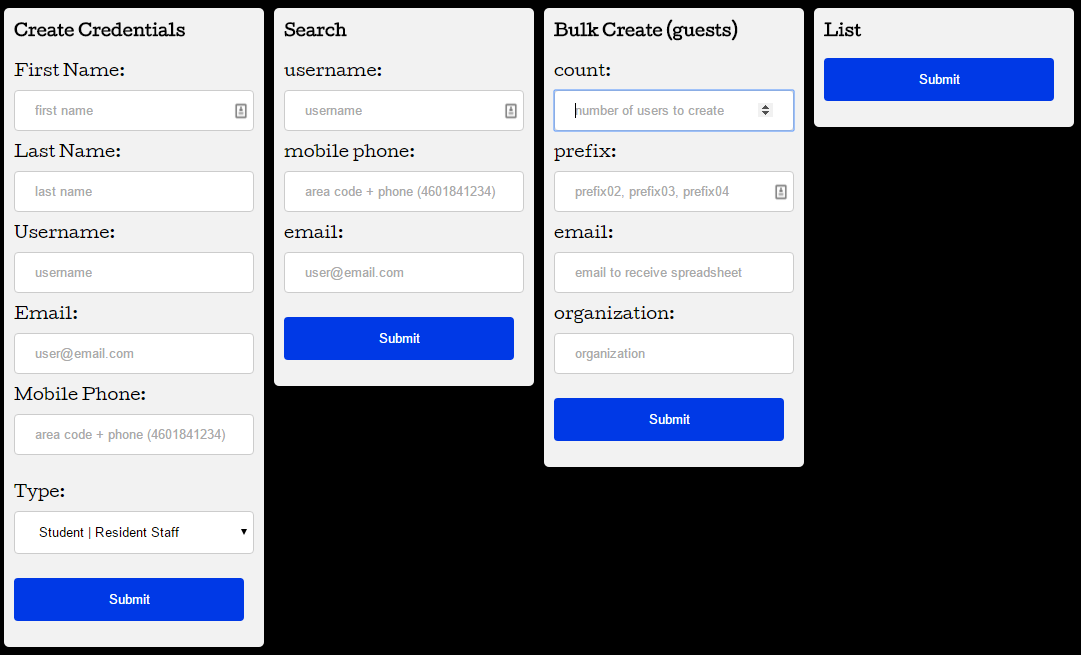
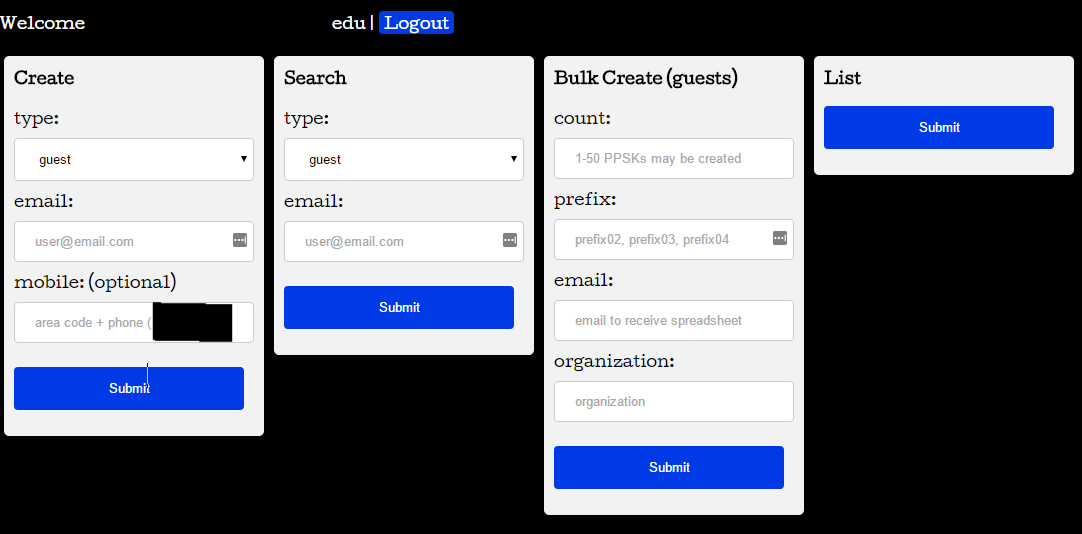
layout changes
made sms optional. removed first name, last name, and username fields
since we will be using the email as the username.

diff --git a/style.css b/style.css
@@ -114,3 +114,19 @@ div.buttons {
     background-color: #002db3;
 }
 
+#logout {
+    background-color: #0039e6;
+    color: white;
+    width: 75px;
+    height:23px;
+    border: none;
+    border-radius: 4px;
+    text-align: center;
+    text-decoration: none;
+    display: inline-block;
+    float: top;
+}
+
+#logout:hover {
+    background-color: #002db3;
+}

diff --git a/index.php b/index.php
@@ -1,7 +1,7 @@
 <html>
     
 <head>
-<title>ITS Wifi Administration Portal</title>
+<title>Wifi Admin Portal</title>
 <link rel="stylesheet" type="text/css" href="style.css">
 <link href="https://fonts.googleapis.com/css?family=Cutive" rel="stylesheet">
 </head>
@@ -9,21 +9,24 @@
 <body>   
 <img src="logo.jpg">
 <p>
-
+Welcome 
+<?php
+    $upn = $_SERVER["HTTP_X_MS_CLIENT_PRINCIPAL_NAME"];
+    echo $upn;
+?>
+   |   <a id="logout" href="/.auth/logout">Logout</a>
+<p>
 <div class="index" style="float: left;">
-<b>Create Credentials</b>
+<b>Create</b>
 <p>
 <form action="create.php" method="post">
-    First Name:<br /><input type="text" name="firstName" placeholder="first name" pattern="[a-zA-Z]+" autocomplete="off" required><br />
-	Last Name:<br /><input type="text" name="lastName" placeholder="last name" pattern="[a-zA-Z]+" autocomplete="off" required><br />
-    Username:<br /><input type="text" name="userName" placeholder="username" autocomplete="off" required><br />
-    Email:<br /><input type="email" name="email" placeholder="user@email.com" autocomplete="off" required><br />
-	Mobile Phone:<br /><input type="tel" name="phone" pattern="^\d{10}$" placeholder="area code + phone (4601841234)" autocomplete="off" required><p>
-    Type:<br />
+    type:<br />
     <select name="userGroup">
-        <option value="groupId">Student | Resident Staff</option>
-        <option value="groupId">Guest</option>
+        <option value="">student | resident staff</option>
+        <option value="">guest</option>
     </select>
+    email:<br /><input type="email" name="email" placeholder="user@email.com" autocomplete="off" required><br />
+    mobile: (optional)<br /><input type="tel" name="phone" pattern="^\d{11}$" placeholder="area code + phone (18001234567)" autocomplete="off" ><p>
     <p><input type="submit" name="submit" value="Submit" />
     </form>
 </div>
@@ -32,9 +35,12 @@
 <b>Search</b>
 <p>
 <form action="search.php" method="post">
-    username:<br /><input type="text" name="userName" placeholder="username" autocomplete="off" ><br />
-    mobile phone:<br /><input type="text" name="phone" pattern="^\d{10}$" placeholder="area code + phone (4601841234)" autocomplete="off" >
-    email:<br /><input type="email" name="email" placeholder="user@email.com" autocomplete="off" ><br />
+    type:<br />
+    <select name="userGroup">
+        <option value="">student | resident staff</option>
+        <option value="">guest</option>
+    </select>
+    email:<br /><input type="text" name="userName" placeholder="user@email.com" autocomplete="off" ><br />
     <p><input type="submit" name="submit" value="Submit" />
     </form>
 </div>
@@ -47,7 +53,7 @@
     prefix:<br /><input type="text" name="userNamePrefix" maxlength="6" placeholder="prefix02, prefix03, prefix04" autocomplete="off" >
     email:<br /><input type="email" name="email" placeholder="email to receive spreadsheet" autocomplete="off" ><br />
     organization:<br /><input type="text" name="organization" maxlength="25" placeholder="organization" autocomplete="off" ><br />
-    <input type="hidden" name="groupId" value="groupId">
+    <input type="hidden" name="groupId" value="">
     <p><input type="submit" name="submit" value="Submit" />
     </form>
 </div>

diff --git a/create.php b/create.php
@@ -14,10 +14,10 @@ include 'tokens.php';
 curl_setopt($process, CURLOPT_SSL_VERIFYPEER, true);
 $firstName = $_POST["firstName"];
 $lastName = $_POST["lastName"];
-$email = $_POST["email"];
 $phone = $_POST["phone"];
+$email = $_POST["email"];
 $policy = "GUEST";
-$userName = $_POST["userName"];
+$userName = $_POST["email"];
 $userGroup = $_POST["userGroup"];
 $curl = curl_init();
 
@@ -29,7 +29,7 @@ curl_setopt_array($curl, array(
   CURLOPT_TIMEOUT => 30,
   CURLOPT_HTTP_VERSION => CURL_HTTP_VERSION_1_1,
   CURLOPT_CUSTOMREQUEST => "POST",
-  CURLOPT_POSTFIELDS => "{\r\n  \"deliverMethod\": \"EMAIL_AND_SMS\",\r\n  \"policy\": \"$policy\",\r\n  \"email\": \"$email\",\r\n  \"firstName\": \"$firstName\",\r\n  \"groupId\": \"$userGroup\",\r\n  \"lastName\": \"$lastName\",\r\n \"phone\": \"1$phone\",\r\n  \"userName\": \"$userName\"\r\n}",
+  CURLOPT_POSTFIELDS => "{\r\n  \"deliverMethod\": \"EMAIL\",\r\n  \"policy\": \"$policy\",\r\n  \"email\": \"$email\",\r\n  \"firstName\": \"$firstName\",\r\n  \"groupId\": \"$userGroup\",\r\n  \"lastName\": \"$lastName\",\r\n \"phone\": \"$phone\",\r\n \"userName\": \"$userName\"\r\n}",
   CURLOPT_HTTPHEADER => array(
     "authorization: Bearer $guesttoken",
     "cache-control: no-cache",

diff --git a/search.php b/search.php
@@ -11,13 +11,13 @@
 
 <?php
 include 'tokens.php';
-$phone = $_POST["phone"];
 $userName = $_POST["userName"];
+$userGroup = $_POST["userGroup"];
 $email = $_POST["email"];
 $curl = curl_init();
 
 curl_setopt_array($curl, array(
-  CURLOPT_URL => "https://cloud-va.aerohive.com/xapi/v1/identity/credentials?ownerId=$ownerId&phone=1$phone&userName=$userName&email=$email",
+  CURLOPT_URL => "https://cloud-va.aerohive.com/xapi/v1/identity/credentials?ownerId=$ownerId&userGroup=$userGroup&userName=$userName&email=$email",
   CURLOPT_RETURNTRANSFER => true,
   CURLOPT_ENCODING => "",
   CURLOPT_MAXREDIRS => 10,
@@ -45,9 +45,9 @@ $ssids = $json['data'][0]['ssids'][0];
 $createTime = $json['data'][0]['createTime'];
 $expireTime = $json['data'][0]['expireTime'];
 
-if ($groupId == "7799660611852") {
+if ($groupId == "") {
   $type = "student";
-} elseif ($groupId == "7799660611659") { 
+} elseif ($groupId == "") { 
   $type = "guest";
 } else { 
   $type = "Not Found or Unknown Error";

diff --git a/renew.php b/renew.php
@@ -35,14 +35,15 @@ curl_setopt_array($curl, array(
 ));
 
 $response = curl_exec($curl);
+$json = json_decode($response, true);
+$id = $json['data']['id'];
+$expireTime = $json['data']['expireTime'];
 $err = curl_error($curl);
 
 curl_close($curl);
 
 if ($err) {
   echo "cURL Error #:" . $err;
-}  else { 
-     echo $response;
 }
 ?>
 <p>
@@ -50,6 +51,18 @@ if ($err) {
 echo $userName;
 ?>
  has been renewed
+<p>
+credential id: 
+<?php
+echo $id;
+?>
+
+<p>
+expiration:   
+<?php
+echo $expireTime;
+?>
+
 <p>
 <a id="returnbutton" href="<?php echo $returnurl ?>">Return</a>
 

diff --git a/list.php b/list.php
@@ -14,7 +14,7 @@ include 'tokens.php';
 $curl = curl_init();
 
 curl_setopt_array($curl, array(
-  CURLOPT_URL => "https://cloud-va.aerohive.com/xapi/v1/identity/credentials?ownerId=$ownerId",
+  CURLOPT_URL => "https://cloud-va.aerohive.com/xapi/v1/identity/credentials?ownerId=$ownerId&pageSize=1000",
   CURLOPT_RETURNTRANSFER => true,
   CURLOPT_ENCODING => "",
   CURLOPT_MAXREDIRS => 10,

diff --git a/tokens.php b/tokens.php
@@ -4,5 +4,5 @@ $clientid = "";
 $clientsecret = "";
 $redirecturi = "";
 $ownerId = "";
-$returnurl = ""
+$returnurl = "";
 ?>
